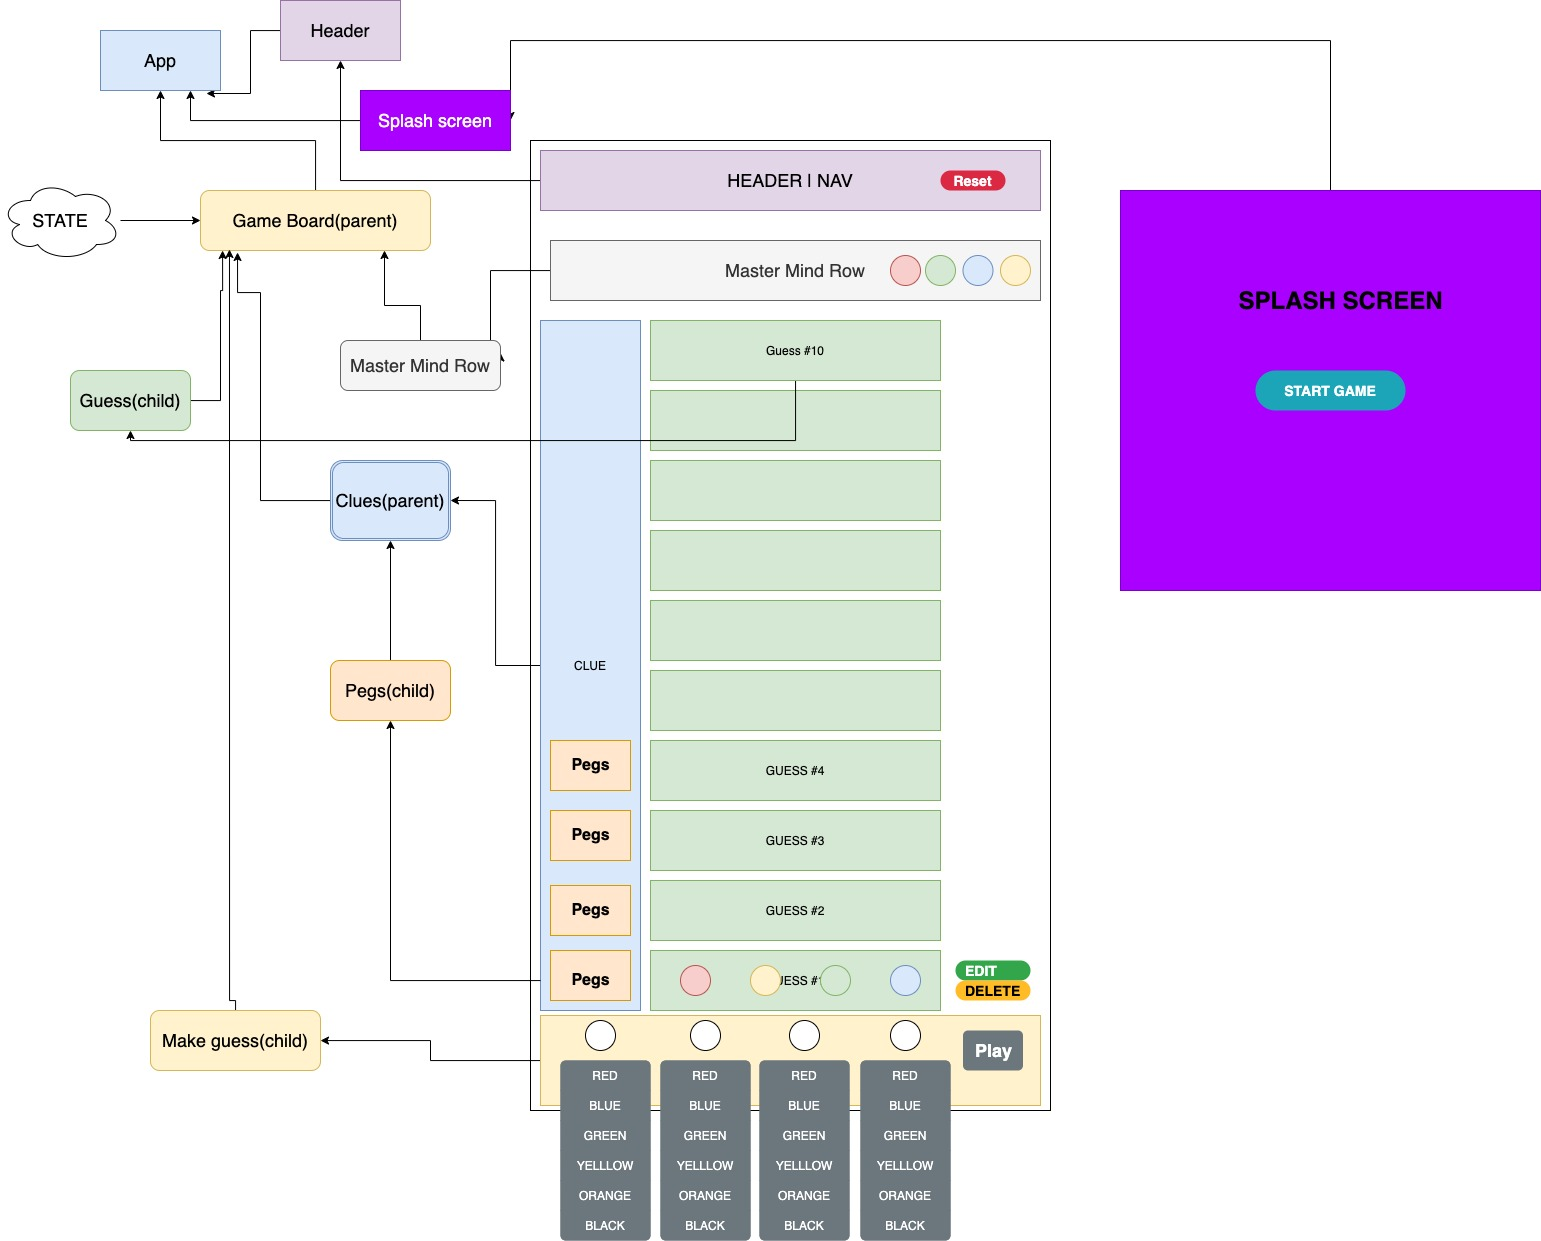
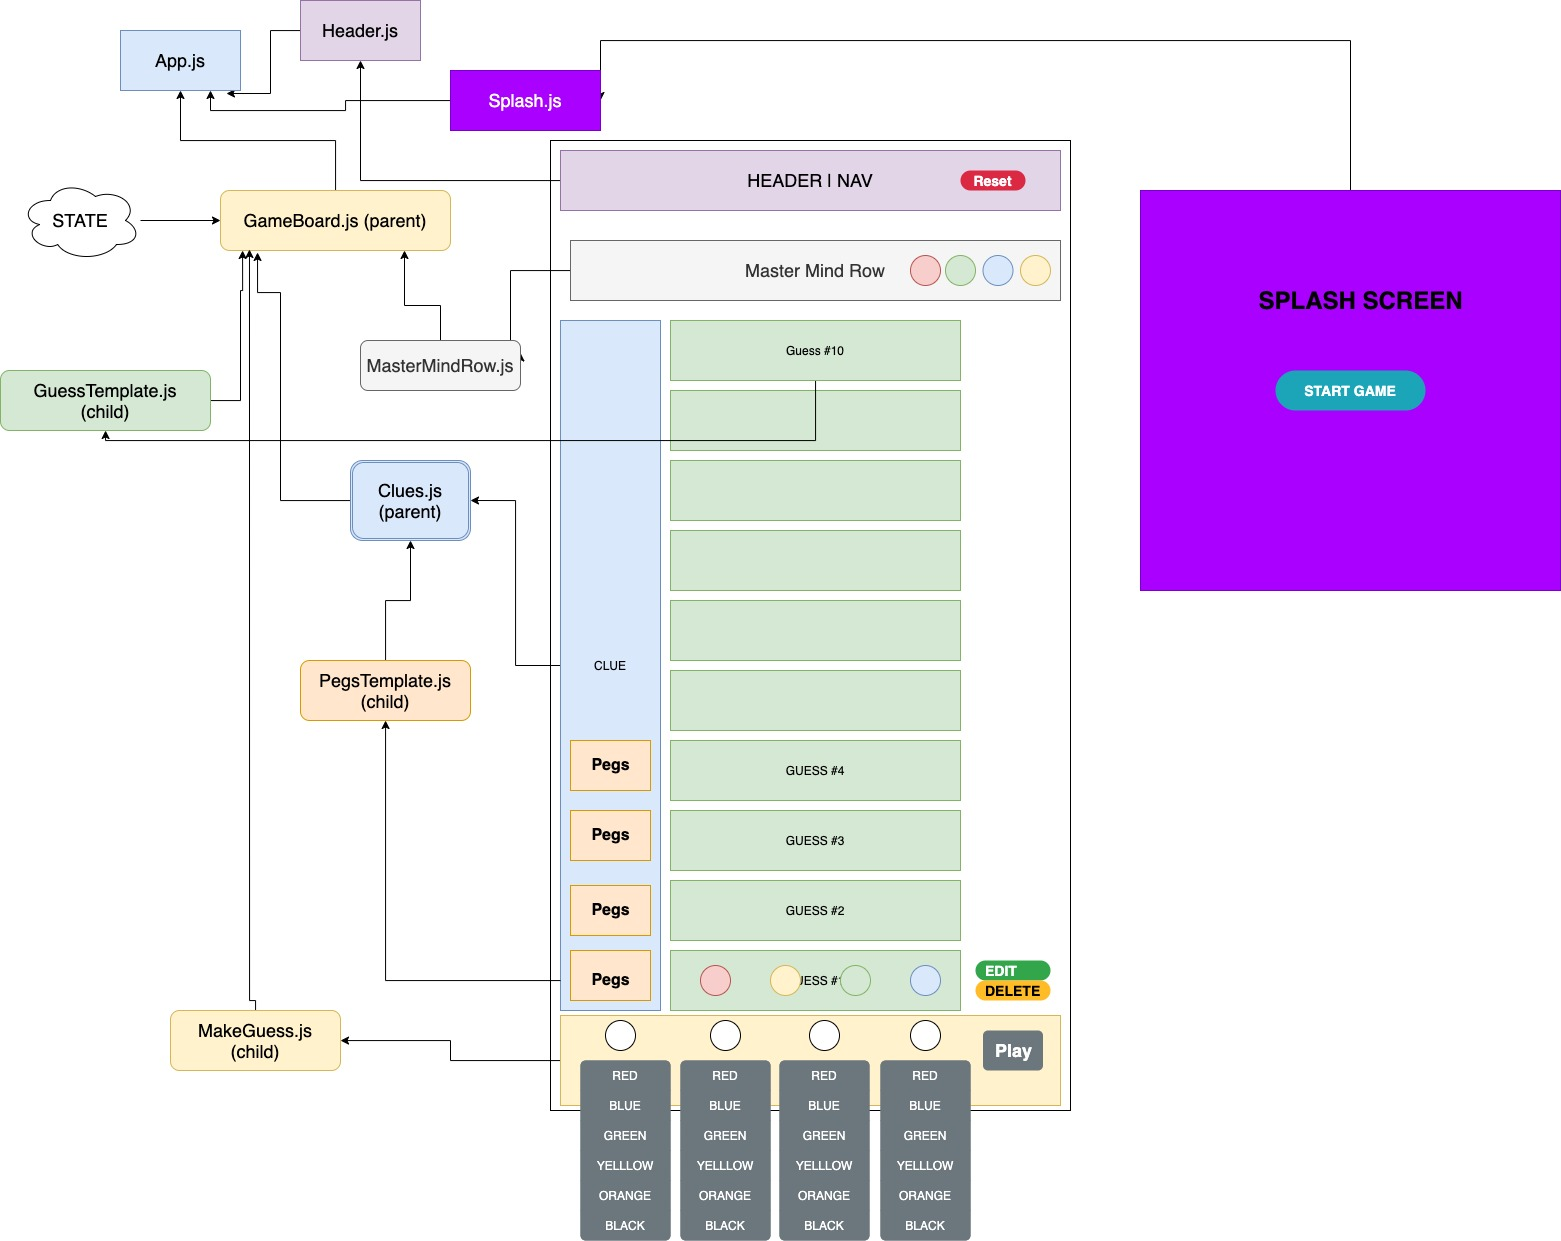
add component files, boilerplate, and update readme image.

diff --git a/src/components/App.js b/src/components/App.js
@@ -1,24 +1,10 @@
-import React from 'react';
-import logo from './logo.svg';
-import './App.css';
+import React from "react";
+import "./App.css";
 
 function App() {
   return (
     <div className="App">
-      <header className="App-header">
-        <img src={logo} className="App-logo" alt="logo" />
-        <p>
-          Edit <code>src/App.js</code> and save to reload.
-        </p>
-        <a
-          className="App-link"
-          href="https://reactjs.org"
-          target="_blank"
-          rel="noopener noreferrer"
-        >
-          Learn React
-        </a>
-      </header>
+      <h1> Master Mind App </h1>
     </div>
   );
 }

diff --git a/src/components/Game/MasterMindRow.js b/src/components/Game/MasterMindRow.js
@@ -1,0 +1,6 @@
+import React from "react";
+
+function MasterMindRow() {
+  return <h1>Master Mind Row</h1>;
+}
+export default MasterMindRow;

diff --git a/src/components/Game/GuessTemplate.js b/src/components/Game/GuessTemplate.js
@@ -1,0 +1,6 @@
+import React from "react";
+
+function GuessTemplate() {
+  return <h1>Guess Template</h1>;
+}
+export default GuessTemplate;

diff --git a/src/components/Game/MakeGuess.js b/src/components/Game/MakeGuess.js
@@ -1,0 +1,6 @@
+import React from "react";
+
+function MakeGuess() {
+  return <h1>Make Guess</h1>;
+}
+export default MakeGuess;

diff --git a/src/components/Game/GameBoard.js b/src/components/Game/GameBoard.js
@@ -1,0 +1,6 @@
+import React from "react";
+
+function GameBoard() {
+  return <h1>GameBoard</h1>;
+}
+export default GameBoard;

diff --git a/src/components/Game/Clues.js b/src/components/Game/Clues.js
@@ -1,0 +1,6 @@
+import React from "react";
+
+function Clues() {
+  return <h1>Clues</h1>;
+}
+export default Clues;

diff --git a/src/components/Game/PegsTemplate.js b/src/components/Game/PegsTemplate.js
@@ -1,0 +1,6 @@
+import React from "react";
+
+function Pegs() {
+  return <h1>Pegs</h1>;
+}
+export default Pegs;
